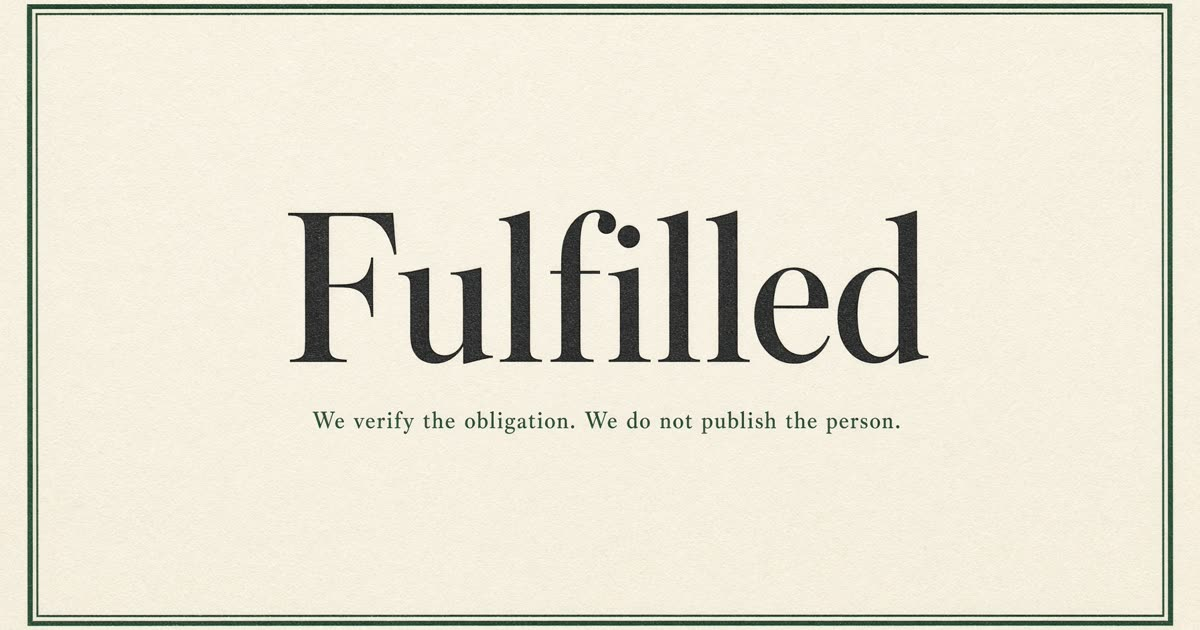
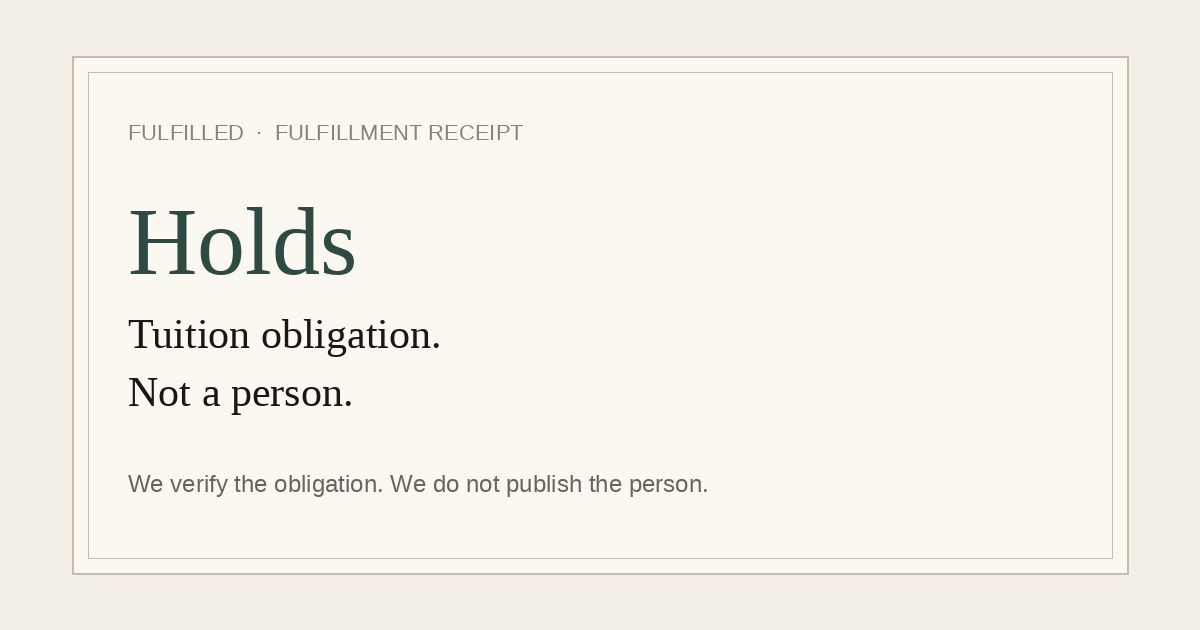
Add an honest social preview at /share
The card says Holds, tuition obligation, not a person. No name in the
image. Crawlers do not run Verify; the copy is frozen to the golden
example. Replaces the old og.jpg that showed a fictional student.

diff --git a/src/routeTree.gen.ts b/src/routeTree.gen.ts
@@ -17,6 +17,7 @@ import { Route as DoctrineRouteImport } from './routes/doctrine'
 import { Route as NamingRouteImport } from './routes/naming'
 import { Route as PoliciesRouteImport } from './routes/policies'
 import { Route as RegistryRouteImport } from './routes/registry'
+import { Route as ShareRouteImport } from './routes/share'
 import { Route as VerifyRouteImport } from './routes/verify'
 import { Route as WorkshopRouteImport } from './routes/workshop'
 import { Route as DemoConsultRouteImport } from './routes/demo/consult'
@@ -64,6 +65,11 @@ const PoliciesRoute = PoliciesRouteImport.update({
 const RegistryRoute = RegistryRouteImport.update({
   id: '/registry',
   path: '/registry',
+  getParentRoute: () => rootRouteImport,
+} as any)
+const ShareRoute = ShareRouteImport.update({
+  id: '/share',
+  path: '/share',
   getParentRoute: () => rootRouteImport,
 } as any)
 const VerifyRoute = VerifyRouteImport.update({
@@ -116,6 +122,7 @@ export interface FileRoutesByFullPath {
   '/naming': typeof NamingRoute
   '/policies': typeof PoliciesRoute
   '/registry': typeof RegistryRoute
+  '/share': typeof ShareRoute
   '/verify': typeof VerifyRoute
   '/workshop': typeof WorkshopRoute
   '/demo/consult': typeof DemoConsultRoute
@@ -134,6 +141,7 @@ export interface FileRoutesByTo {
   '/naming': typeof NamingRoute
   '/policies': typeof PoliciesRoute
   '/registry': typeof RegistryRoute
+  '/share': typeof ShareRoute
   '/verify': typeof VerifyRoute
   '/workshop': typeof WorkshopRoute
   '/demo/consult': typeof DemoConsultRoute
@@ -153,6 +161,7 @@ export interface FileRoutesById {
   '/naming': typeof NamingRoute
   '/policies': typeof PoliciesRoute
   '/registry': typeof RegistryRoute
+  '/share': typeof ShareRoute
   '/verify': typeof VerifyRoute
   '/workshop': typeof WorkshopRoute
   '/demo/consult': typeof DemoConsultRoute
@@ -173,6 +182,7 @@ export interface FileRouteTypes {
     | '/naming'
     | '/policies'
     | '/registry'
+    | '/share'
     | '/verify'
     | '/workshop'
     | '/demo/consult'
@@ -191,6 +201,7 @@ export interface FileRouteTypes {
     | '/naming'
     | '/policies'
     | '/registry'
+    | '/share'
     | '/verify'
     | '/workshop'
     | '/demo/consult'
@@ -209,6 +220,7 @@ export interface FileRouteTypes {
     | '/naming'
     | '/policies'
     | '/registry'
+    | '/share'
     | '/verify'
     | '/workshop'
     | '/demo/consult'
@@ -228,6 +240,7 @@ export interface RootRouteChildren {
   NamingRoute: typeof NamingRoute
   PoliciesRoute: typeof PoliciesRoute
   RegistryRoute: typeof RegistryRoute
+  ShareRoute: typeof ShareRoute
   VerifyRoute: typeof VerifyRoute
   WorkshopRoute: typeof WorkshopRoute
   DemoConsultRoute: typeof DemoConsultRoute
@@ -294,6 +307,13 @@ declare module '@tanstack/react-router' {
       path: '/registry'
       fullPath: '/registry'
       preLoaderRoute: typeof RegistryRouteImport
+      parentRoute: typeof rootRouteImport
+    }
+    '/share': {
+      id: '/share'
+      path: '/share'
+      fullPath: '/share'
+      preLoaderRoute: typeof ShareRouteImport
       parentRoute: typeof rootRouteImport
     }
     '/verify': {
@@ -364,6 +384,7 @@ const rootRouteChildren: RootRouteChildren = {
   NamingRoute: NamingRoute,
   PoliciesRoute: PoliciesRoute,
   RegistryRoute: RegistryRoute,
+  ShareRoute: ShareRoute,
   VerifyRoute: VerifyRoute,
   WorkshopRoute: WorkshopRoute,
   DemoConsultRoute: DemoConsultRoute,

diff --git a/src/routes/share.tsx b/src/routes/share.tsx
@@ -1,0 +1,56 @@
+import { createFileRoute, Link } from "@tanstack/react-router";
+import { ArrowRight } from "lucide-react";
+import { Button } from "@/components/ui/button";
+import {
+  PUBLIC_EXAMPLE_RECEIPT_ID,
+  SHARE_CARD,
+} from "@/lib/fulfillment";
+
+export const Route = createFileRoute("/share")({
+  head: () => ({
+    meta: [
+      { title: SHARE_CARD.title },
+      { name: "description", content: SHARE_CARD.description },
+      { property: "og:type", content: "website" },
+      { property: "og:title", content: SHARE_CARD.title },
+      { property: "og:description", content: SHARE_CARD.description },
+      { property: "og:image", content: SHARE_CARD.image },
+      { name: "twitter:card", content: "summary_large_image" },
+      { name: "twitter:title", content: SHARE_CARD.title },
+      { name: "twitter:description", content: SHARE_CARD.description },
+      { name: "twitter:image", content: SHARE_CARD.image },
+    ],
+  }),
+  component: SharePage,
+});
+
+function SharePage() {
+  return (
+    <div className="mx-auto max-w-2xl px-4 py-16 sm:px-6">
+      <p className="text-2xs uppercase tracking-caps text-fg-subtle">
+        Public example · synthetic
+      </p>
+      <h1 className="mt-3 font-display text-5xl text-verified">Holds</h1>
+      <p className="mt-4 font-display text-3xl">Tuition obligation.</p>
+      <p className="mt-2 font-display text-3xl text-fg-muted">Not a person.</p>
+      <p className="mt-6 text-lg text-fg-muted">{SHARE_CARD.description}</p>
+      <p className="mt-3 text-sm text-fg-muted">{SHARE_CARD.tagline}</p>
+      <div className="mt-10 flex flex-col gap-3 sm:flex-row">
+        <Button asChild>
+          <Link to="/verify" search={{ example: PUBLIC_EXAMPLE_RECEIPT_ID }}>
+            Independent check
+            <ArrowRight />
+          </Link>
+        </Button>
+        <Button asChild variant="outline">
+          <Link
+            to="/refusal/$id"
+            params={{ id: PUBLIC_EXAMPLE_RECEIPT_ID }}
+          >
+            What it will not say
+          </Link>
+        </Button>
+      </div>
+    </div>
+  );
+}

diff --git a/src/routes/__root.tsx b/src/routes/__root.tsx
@@ -18,6 +18,19 @@ export const Route = createRootRoute({
           "We verify the obligation. We do not publish the person. Open Proof of Fulfillment receipts for tuition and care.",
       },
       { name: "theme-color", content: "#F3EFE6" },
+      { property: "og:title", content: APP_NAME },
+      {
+        property: "og:description",
+        content: "We verify the obligation. We do not publish the person.",
+      },
+      { property: "og:image", content: "/og-share.png" },
+      { name: "twitter:card", content: "summary_large_image" },
+      { name: "twitter:title", content: APP_NAME },
+      {
+        name: "twitter:description",
+        content: "We verify the obligation. We do not publish the person.",
+      },
+      { name: "twitter:image", content: "/og-share.png" },
     ],
     links: [
       { rel: "icon", type: "image/svg+xml", href: "/favicon.svg" },

diff --git a/src/lib/fulfillment/share.test.ts b/src/lib/fulfillment/share.test.ts
@@ -1,0 +1,17 @@
+import assert from "node:assert/strict";
+import { describe, it } from "node:test";
+import { PUBLIC_EXAMPLE_RECEIPT_ID } from "./golden.ts";
+import { SHARE_CARD } from "./share.ts";
+
+describe("honest social preview", () => {
+  it("says Holds and refuses a person", () => {
+    assert.equal(SHARE_CARD.example_id, PUBLIC_EXAMPLE_RECEIPT_ID);
+    assert.match(SHARE_CARD.title, /Holds/);
+    assert.match(SHARE_CARD.title, /tuition/i);
+    assert.match(SHARE_CARD.description, /Not a person/);
+    assert.match(SHARE_CARD.description, /Not grades/);
+    assert.equal(SHARE_CARD.description.includes("@"), false);
+    assert.equal(/Jordan|student_name|Hale/i.test(SHARE_CARD.title + SHARE_CARD.description), false);
+    assert.equal(SHARE_CARD.image, "/og-share.png");
+  });
+});

diff --git a/src/lib/fulfillment/share.ts b/src/lib/fulfillment/share.ts
@@ -1,0 +1,13 @@
+import { PRODUCT_NAMES } from "./naming.ts";
+import { PUBLIC_EXAMPLE_RECEIPT_ID } from "./golden.ts";
+
+/** Frozen social card. Crawlers do not run Verify. This copy is the pin. */
+export const SHARE_CARD = {
+  path: "/share",
+  example_id: PUBLIC_EXAMPLE_RECEIPT_ID,
+  title: "Holds · tuition obligation",
+  description:
+    "A synthetic fulfillment receipt. Not a person. Not grades. Not attendance.",
+  image: "/og-share.png",
+  tagline: PRODUCT_NAMES.tagline,
+} as const;

diff --git a/src/routes/index.tsx b/src/routes/index.tsx
@@ -49,7 +49,12 @@ function Home() {
           </Button>
         </div>
         <p className="mt-4 max-w-xl text-sm text-fg-muted">
-          A synthetic tuition receipt. Independent check. No person.
+          A synthetic tuition receipt. Independent check. No person. The
+          card you send is{" "}
+          <Link to="/share" className="text-primary underline-offset-4 hover:underline">
+            /share
+          </Link>
+          .
         </p>
       </section>
 

diff --git a/src/lib/fulfillment/index.ts b/src/lib/fulfillment/index.ts
@@ -15,6 +15,7 @@ export * from "./paper.ts";
 export * from "./lookup.ts";
 export * from "./refusal.ts";
 export * from "./registry.ts";
+export * from "./share.ts";
 
 export function formatMoney(minor: number, currency = "USD"): string {
   return new Intl.NumberFormat("en-US", {

diff --git a/scripts/make-og-share.py b/scripts/make-og-share.py
@@ -1,0 +1,40 @@
+"""Paper share card. No person. Frozen copy only."""
+from PIL import Image, ImageDraw, ImageFont
+
+W, H = 1200, 630
+BG = (243, 239, 230)
+SHEET = (251, 248, 241)
+INK = (26, 23, 20)
+MUTED = (107, 100, 91)
+SUBTLE = (138, 130, 120)
+RULE = (201, 187, 171)
+HOLD = (47, 74, 66)
+
+serif = "/usr/share/fonts/truetype/liberation/LiberationSerif-Regular.ttf"
+serif_b = "/usr/share/fonts/truetype/liberation/LiberationSerif-Bold.ttf"
+sans = "/usr/share/fonts/truetype/liberation/LiberationSans-Regular.ttf"
+
+img = Image.new("RGB", (W, H), BG)
+d = ImageDraw.Draw(img)
+d.rectangle((72, 56, W - 72, H - 56), fill=SHEET, outline=RULE, width=2)
+d.rectangle((88, 72, W - 88, H - 72), outline=RULE, width=1)
+
+kicker = ImageFont.truetype(sans, 22)
+hold = ImageFont.truetype(serif, 96)
+body = ImageFont.truetype(serif, 42)
+tag = ImageFont.truetype(sans, 24)
+
+d.text((128, 120), "FULFILLED  ·  FULFILLMENT RECEIPT", fill=SUBTLE, font=kicker)
+d.text((128, 188), "Holds", fill=HOLD, font=hold)
+d.text((128, 310), "Tuition obligation.", fill=INK, font=body)
+d.text((128, 368), "Not a person.", fill=INK, font=body)
+d.text(
+    (128, 470),
+    "We verify the obligation. We do not publish the person.",
+    fill=MUTED,
+    font=tag,
+)
+
+img.save("public/og-share.png", "PNG", optimize=True)
+img.convert("RGB").save("public/og.jpg", "JPEG", quality=88)
+print("wrote public/og-share.png and public/og.jpg")

diff --git a/README.md b/README.md
@@ -95,9 +95,10 @@ issue a **new** receipt. History is not rewritten.
 Print or save as PDF from **Print paper receipt**, or open `/paper/{id}`.
 The sheet is the public receipt: assertions, not-asserted, full digest.
 It is not a person. Use the browser’s Save as PDF. There is no name on it.
-The public example has a refusal card: `/refusal/pof_edu_t2_ok`.
-Holds on one side. What the receipt will not say on the other.
-No person.
+Send **`/share`**. That URL is the social card: *Holds · tuition
+obligation. Not a person.* Crawlers do not run Verify. The copy is
+frozen. The image has no name.
+
 
 The policy pin is `/registry` and `/registry.json`. Hashes are frozen.
 A one-byte policy change is a new version.

diff --git a/src/lib/fulfillment/AGENTS.md b/src/lib/fulfillment/AGENTS.md
@@ -77,9 +77,15 @@ A new policy needs:
 - `registry.ts` — frozen public policy registry. Hashes must match
   `LOCKED_POLICY_HASHES`. `/registry` for humans. `/registry.json` for
   machines. Do not edit a version in place.
+- `share.ts` — frozen social card copy. `/share` is what a crawler
+  reads. It may say Holds only because the public example is golden.
+  It may not publish a person. The old og.jpg with a fictional name
+  is not this protocol.
 - `agent-contract.ts` — public machine interface. Agents may verify.
   They may not mint VERIFIED, publish a person, or authorize payment.
   `/agents` renders this object. Tests freeze it.
+
+
 
 
 
